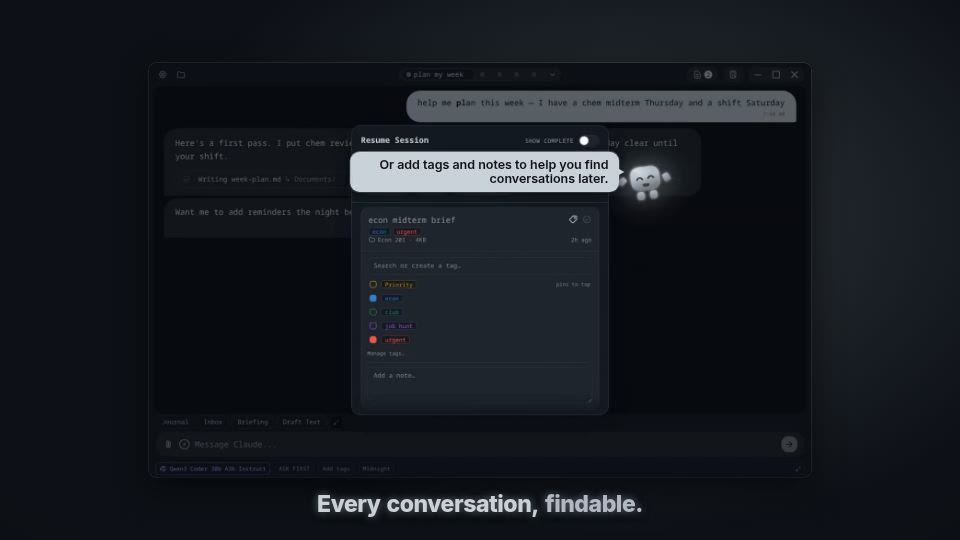
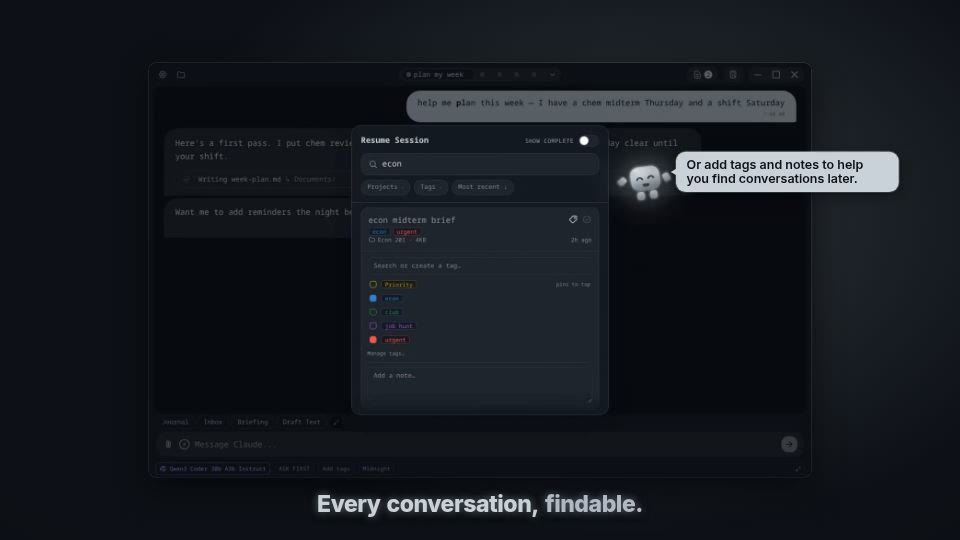
feat(promo): bubbles hug their text (measured word by word; a wrapped box shrinks to its longest line); six end-pose candidates for the close as stills; the editor takes --fresh and writes per-round answers
Claude-Session: https://claude.ai/code/session_01LBxbw11VyzdZjQ18CtTeTQ

Changed region(s): [[0.3438, 0.2667, 0.6562, 0.3556], [0.6875, 0.2667, 0.9375, 0.3556]]

diff --git a/scripts/promo/src/Bubble.tsx b/scripts/promo/src/Bubble.tsx
@@ -3,6 +3,7 @@ import { useCurrentFrame, useVideoConfig, spring, interpolate } from 'remotion';
 import { family } from './Caption';
 import { THEMES, type Slug } from './themes';
 import { evaluate, type Action, type HostState } from './host/engine';
+import { measureText } from '@remotion/layout-utils';
 
 // The speech bubble: the caption's second line, said by the host. Destin,
 // 2026-09-04: "one top-line caption/section label, then have the sub-label or
@@ -18,6 +19,33 @@ type Props = { cues: BubbleCue[]; actions: Action[]; base: HostState };
 const FONT = 26, PAD_X = 22, PAD_Y = 11, GAP = 18, OUT = 6;
 const MAX_W = 560;   // a longer line WRAPS (Destin's twelve-word games line ran off the frame on one line, 2026-09-04)
 export const bubbleWidth = (text: string) => Math.min(text.length * FONT * 0.56 + PAD_X * 2, MAX_W + PAD_X * 2);
+/**
+ * The TIGHT width of a bubble's text: measured word by word (Destin, 2026-09-04: "some of the
+ * bubbles have extra empty space on the left/right side"). A box set to `max-content` capped at
+ * maxW is maxW wide whenever the text wraps, even when its lines are shorter — so this wraps the
+ * words greedily at maxW to learn the line count, then finds the narrowest width that still fits
+ * in that many lines. Measured with the real font, so the box hugs the longest line.
+ */
+const fitCache = new Map<string, number>();
+export function fitWidth(text: string, fontFamily: string, maxW: number): number {
+  const key = `${fontFamily}|${maxW}|${text}`;
+  const hit = fitCache.get(key); if (hit != null) return hit;
+  const opts = { fontFamily, fontSize: FONT, fontWeight: 600 } as const;
+  const words = text.split(' ').map((w) => ({ w, width: measureText({ text: w, ...opts }).width }));
+  const space = measureText({ text: 'a a', ...opts }).width - measureText({ text: 'aa', ...opts }).width;
+  const lines = (W: number) => { let n = 1, cur = 0; for (const { width } of words) { const add = cur ? space + width : width; if (cur && cur + add > W) { n++; cur = width; } else cur += add; } return n; };
+  const total = words.reduce((t, x) => t + x.width, 0) + space * (words.length - 1);
+  let out: number;
+  if (total <= maxW) out = total;
+  else {
+    const n = lines(maxW);
+    let lo = Math.max(...words.map((x) => x.width)), hi = maxW;   // the narrowest width that still wraps into n lines
+    for (let i = 0; i < 24; i++) { const mid = (lo + hi) / 2; if (lines(mid) <= n) hi = mid; else lo = mid; }
+    out = hi;
+  }
+  out = Math.ceil(out) + 2;   // a hair of slack so the browser's own rounding never adds a line
+  fitCache.set(key, out); return out;
+}
 
 export const Bubbles: React.FC<Props> = ({ cues, actions, base }) => {
   const f = useCurrentFrame(); const { fps } = useVideoConfig();
@@ -42,6 +70,7 @@ export const Bubbles: React.FC<Props> = ({ cues, actions, base }) => {
   // Resume browser went to the left and covered the search field it was pointing at, 2026-09-04)
   const right = cue.side ? cue.side === 'R' : (s0.x + s0.size / 2 < 1280 && fitsRight) || roomRight >= roomLeft;
   const maxW = Math.max(260, Math.min(MAX_W, (right ? roomRight : roomLeft) - PAD_X * 2));
+  const tight = fitWidth(cue.text, family(t), maxW);
   const inS = spring({ frame: f - cue.at, fps, config: { damping: 12, stiffness: 190 } });
   const outS = f >= until ? interpolate(f - until, [0, OUT], [1, 0], { extrapolateRight: 'clamp' }) : 1;
   const scale = inS * outS;
@@ -54,7 +83,7 @@ export const Bubbles: React.FC<Props> = ({ cues, actions, base }) => {
   return (
     <div style={{ position: 'absolute', left: anchorX, top: headY, transform: `translate(${right ? GAP : -GAP}px, -50%) ${right ? '' : 'translateX(-100%)'}`, pointerEvents: 'none' }}>
       <div style={{ position: 'relative', transform: `scale(${scale.toFixed(3)})`, transformOrigin: right ? '0% 50%' : '100% 50%', opacity: Math.min(1, scale * 1.4) }}>
-        <div style={{ padding: `${PAD_Y}px ${PAD_X}px`, borderRadius: 20, background: bg, color: ink, fontFamily: family(t), fontSize: FONT, fontWeight: 600, lineHeight: 1.2, whiteSpace: 'normal', maxWidth: maxW, width: 'max-content', textAlign: right ? 'left' : 'right',
+        <div style={{ padding: `${PAD_Y}px ${PAD_X}px`, borderRadius: 20, background: bg, color: ink, fontFamily: family(t), fontSize: FONT, fontWeight: 600, lineHeight: 1.2, whiteSpace: 'normal', width: tight, boxSizing: 'content-box', textAlign: right ? 'left' : 'right',
           boxShadow: `0 8px 24px rgba(0,0,0,${t.dark ? 0.45 : 0.18}), 0 0 0 2px ${t.accent}55` }}>{cue.text}</div>
         {/* the tail: a rounded wedge pointing at the head */}
         <svg width={tail + 4} height={tail * 1.6} viewBox={`0 0 ${tail + 4} ${tail * 1.6}`}

diff --git a/scripts/promo/src/studies/EndPoseStudy.tsx b/scripts/promo/src/studies/EndPoseStudy.tsx
@@ -1,0 +1,29 @@
+import React from 'react';
+import { AbsoluteFill, Sequence } from 'remotion';
+import { Beat10, Y_SPOT } from '../beats/Beat10';
+import { LEN } from '../beats/beat';
+import { Backdrop } from '../Backdrop';
+import { Host } from '../host/Host';
+import { A, REST, type Action } from '../host/engine';
+
+// End-pose candidates for the close (Destin, 2026-09-04: "we need to work on the final
+// idle/ending pose"). Each is a still of the film's last second — the grown window, the
+// modal, the wordmark — with the host beside the Y in one candidate pose, settled.
+export type EndPose = 'A' | 'B' | 'C' | 'D' | 'E' | 'F';
+export const END_POSES: Record<EndPose, { name: string; blurb: string; actions: Action[] }> = {
+  A: { name: 'Powered down', blurb: 'Today: eyes closed, limbs tucked under.', actions: [A.shutdown(0)] },
+  B: { name: 'At ease', blurb: 'Standing, arms down, looking at you with the warm face.', actions: [A.face(0, 'welcome'), A.look(0, 4, 0, 0.05)] },
+  C: { name: 'Wave held', blurb: 'Right arm up in a wave, the happy face.', actions: [A.face(0, 'happy'), A.pose(0, 8, { armR: -150, armL: 0, rot: -3 })] },
+  D: { name: 'Leaning on the Y', blurb: 'Leans into the wordmark, one arm up against the Y, smug.', actions: [A.face(0, 'smug'), A.pose(0, 8, { armR: -100, armL: 8, rot: 9 }), A.look(0, 4, 0.3, 0)] },
+  E: { name: 'Ta-da', blurb: 'Both arms wide, presenting the wordmark, happy.', actions: [A.face(0, 'happy'), A.pose(0, 8, { armL: 115, armR: -115, rot: 4 })] },
+  F: { name: 'Sitting', blurb: 'Sat down on the baseline, legs out in front, at ease.', actions: [A.face(0, 'welcome'), A.pose(0, 8, { legL: -80, legR: 80, armL: 20, armR: -20 }), A.set(0, { sy: 0.96, sx: 1.03 }), A.look(0, 4, 0, 0.1)] },
+};
+const AT = LEN('b10') - 40;   // the close's last second
+export const EndPoseStudy: React.FC<{ pose: EndPose }> = ({ pose }) => (
+  <AbsoluteFill style={{ background: '#000' }}>
+    <Backdrop themes={[{ at: 0, slug: 'golden-sunbreak' }]} total={1} />
+    <Sequence from={-AT}><Beat10 /></Sequence>
+    <Sequence from={-30}><Host actions={END_POSES[pose].actions} base={{ ...REST, x: Y_SPOT.x, y: Y_SPOT.y, size: 120, costume: 'golden-sunbreak', face: 'welcome' }} /></Sequence>
+    <div style={{ position: 'absolute', right: 28, bottom: 14, fontFamily: 'system-ui', fontSize: 24, color: '#fff', opacity: 0.7 }}>{pose} · {END_POSES[pose].name}</div>
+  </AbsoluteFill>
+);

diff --git a/scripts/promo/src/Root.tsx b/scripts/promo/src/Root.tsx
@@ -7,6 +7,7 @@ import { CaptionStudy } from './CaptionStudy';
 import { LabelStudy, LabelReel, REEL_FRAMES, DESIGNS } from './LabelStudy';
 import { HostStudy, STUDY_FRAMES } from './intro/HostStudy';
 import { TransitionStudy, TRANSITION_STUDY_FRAMES } from './studies/TransitionStudy';
+import { EndPoseStudy } from './studies/EndPoseStudy';
 // The film runs the bar grid (TOTAL_FRAMES) plus TAIL_FRAMES, the frames the
 // last beat holds so the music's final chord plays out under a live picture.
 // `Intro` is the cold-open study clip (round three's mascot check-in) and the
@@ -21,6 +22,10 @@ export const RemotionRoot: React.FC = () => (
     <Composition id="PresentStudy" component={Film} durationInFrames={studyFrames(['b4', 'b8'])} fps={FPS} width={1920} height={1080} defaultProps={{ ids: ['b4', 'b8'] as const as any, music: false }} />
     {/* check-in 5: the close on its own — the window filling the frame, the modal, the host beside the Y (Destin, 2026-09-04) */}
     <Composition id="CloseStudy" component={Film} durationInFrames={studyFrames(['b10'])} fps={FPS} width={1920} height={1080} defaultProps={{ ids: ['b10'] as const as any, music: false }} />
+    {/* end-pose candidates for the close (Destin, 2026-09-04) */}
+    {(['A', 'B', 'C', 'D', 'E', 'F'] as const).map((p) => (
+      <Still key={`End${p}`} id={`End${p}`} component={EndPoseStudy} width={1920} height={1080} defaultProps={{ pose: p }} />
+    ))}
     {/* check-in 3b: the label + bubble captions and the three theme-transition candidates */}
     <Composition id="TransitionStudy" component={TransitionStudy} durationInFrames={TRANSITION_STUDY_FRAMES} fps={FPS} width={1920} height={1080} />
     {/* caption STYLE variants for Destin, 2026-09-04, round two: nine animated designs (G X P O K S W B R —

diff --git a/scripts/promo/src/beats/Beat10.tsx b/scripts/promo/src/beats/Beat10.tsx
@@ -28,7 +28,7 @@ const WORD_TOP = MODAL.y + 96;                         // the wordmark's top ins
 assertClipCovers('promo-idle-golden', 0, LEN('b10'));
 // Standing just left of the Y of the big "YouCoded" (Inter 800 at 84 px: the word is ~394 px wide,
 // centred at 960, so the Y's left edge is ~763); the feet sit on the word's baseline.
-const Y_SPOT = { x: 763 - 24 - 120 + 22, y: WORD_TOP + 84 * 0.92 - 120 * 0.86 };
+export const Y_SPOT = { x: 763 - 24 - 120 + 22, y: WORD_TOP + 84 * 0.92 - 120 * 0.86 };
 const HOME = perch(0.3);
 const GROW_AT = PRE + 4, MODAL_AT = PRE + 22;
 /** The window grows from its film size to SCALE over ~0.8 s, then holds. */
@@ -54,7 +54,7 @@ const Modal: React.FC = () => {
     </>
   );
 };
-const Beat10: React.FC = () => (
+export const Beat10: React.FC = () => (
   <AbsoluteFill>
     <Grow />
     <Modal />

diff --git a/scripts/promo/script-editor.py b/scripts/promo/script-editor.py
@@ -1,7 +1,8 @@
 #!/usr/bin/env python3
 """The script editor — a page where Destin rewrites the host's lines with a screenshot of each moment.
 
-  python3 scripts/promo/script-editor.py [--port N] [--no-open] [--build]
+  python3 scripts/promo/script-editor.py [--port N] [--no-open] [--build] [--fresh]
+  --fresh: start from the film's lines, ignoring a previous round's saved edits
 
 One card per line, in film order: the frame from the current draft at the moment the bubble is
 up (so he sees what is on screen and where the host stands), the headline under the window,
@@ -21,7 +22,7 @@ from http.server import BaseHTTPRequestHandler, HTTPServer
 HERE = os.path.dirname(os.path.abspath(__file__))
 DOCS = os.path.abspath(os.path.join(HERE, '..', '..', 'docs', 'active', 'prototypes', 'promo-2026-09'))
 STILLS = os.path.join(DOCS, 'script')
-OUT = os.path.join(DOCS, 'narration-v2.answers.json')
+OUT = os.path.join(DOCS, 'script-edits.answers.json')   # this round's edits; each submit is copied to a dated file by the session that applies it
 
 # What is on screen at each line, in film order (matches narration-v2.md). Keyed by the line's
 # text so a reordered cue list still finds its description; a line with no entry shows nothing.
@@ -177,8 +178,9 @@ def summary(ls, state):
     return '\n'.join(rows) if rows else '  (no changes)'
 
 def main(argv):
-    ap = argparse.ArgumentParser(); ap.add_argument('--port', type=int, default=8791); ap.add_argument('--no-open', action='store_true'); ap.add_argument('--build', action='store_true')
+    ap = argparse.ArgumentParser(); ap.add_argument('--port', type=int, default=8791); ap.add_argument('--no-open', action='store_true'); ap.add_argument('--build', action='store_true'); ap.add_argument('--fresh', action='store_true')
     a = ap.parse_args(argv)
+    if a.fresh and os.path.exists(OUT): os.remove(OUT)
     cs = cues(); names = stills(cs); ls = lines(cs, names); page = render(ls).encode()
     if a.build:
         p = os.path.join(DOCS, 'script-editor.html'); open(p, 'w').write(page.decode().replace("'stills/'", "'script/'")); print('wrote', p); return 0
